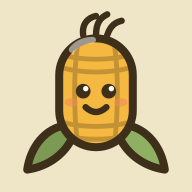
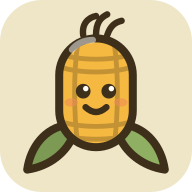
feat(brand): 图标改圆角矩形（App 观感），桌面图标名精简为「知穗Agent」
用户反馈：Windows 桌面快捷方式是一张直角方块贴纸，希望像抖音/豆包那样是圆角。
Windows 与必应都不会替我们切圆角，只能在图里烘进去（22%）。

- 新增 icon.svg（圆角 + 纸色底），favicon 的 SVG 入口从 mascot.svg 改为它
- favicon.ico / icon-192 / icon-512 全部换成圆角版
- 新增 icon-maskable-192/512（满铺）：Android 自己会遮罩，圆角图会被切成双层
- apple-touch-icon 保持满铺（iOS 同理）
- manifest name/short_name 由「知穗Agent · 大学生 AI 素养平台」改为「知穗Agent」，
  layout 补 appleWebApp.title，桌面图标下面不再被截成「知穗Agent · 大学…」

diff --git a/frontend/src/app/layout.tsx b/frontend/src/app/layout.tsx
@@ -13,17 +13,27 @@ export const metadata: Metadata = {
      - SVG：Chrome / Edge / Firefox 首选，任意尺寸都锐利
      - ICO：app/favicon.ico（多尺寸 16→256），Safari 与必应等搜索爬虫只认位图
      - PNG：Android / PWA 主屏，见 manifest.webmanifest
-     apple 必须是 PNG：Safari 不认 SVG 的 apple-touch-icon，且透明底会被填黑，
-     所以这张由本地渲染时铺了纸色 #EDE4C8。 */
+     圆角在此处烘进位图（22%，抖音/豆包那种 App 观感）：Windows 桌面快捷方式、
+     必应搜索结果都不会替我们切圆角，直角会像一张方块贴纸。
+     唯一例外是 apple 那张——iOS 会自己套圆角遮罩，给圆角图会变成圆角套圆角，
+     所以它保持满铺，透明底也会被填黑，故本地渲染时铺了纸色 #EDE4C8。 */
   icons: {
     icon: [
-      { url: "/mascot.svg", type: "image/svg+xml" },
+      { url: "/icon.svg", type: "image/svg+xml" },
       { url: "/icon-192.png", sizes: "192x192", type: "image/png" },
       { url: "/icon-512.png", sizes: "512x512", type: "image/png" },
     ],
     apple: [{ url: "/apple-touch-icon.png", sizes: "180x180", type: "image/png" }],
   },
   manifest: "/manifest.webmanifest",
+  /* 桌面/主屏图标下面的名字。不设的话各系统会去用 title 那串长标题，
+     桌面快捷方式会被截成「知穗Agent · 大学…」。三处一起给才管用：
+     manifest 的 name/short_name、这里的 appleWebApp.title。 */
+  appleWebApp: {
+    title: "知穗Agent",
+    capable: true,
+    statusBarStyle: "default",
+  },
   openGraph: {
     title: TITLE,
     description: DESC,
